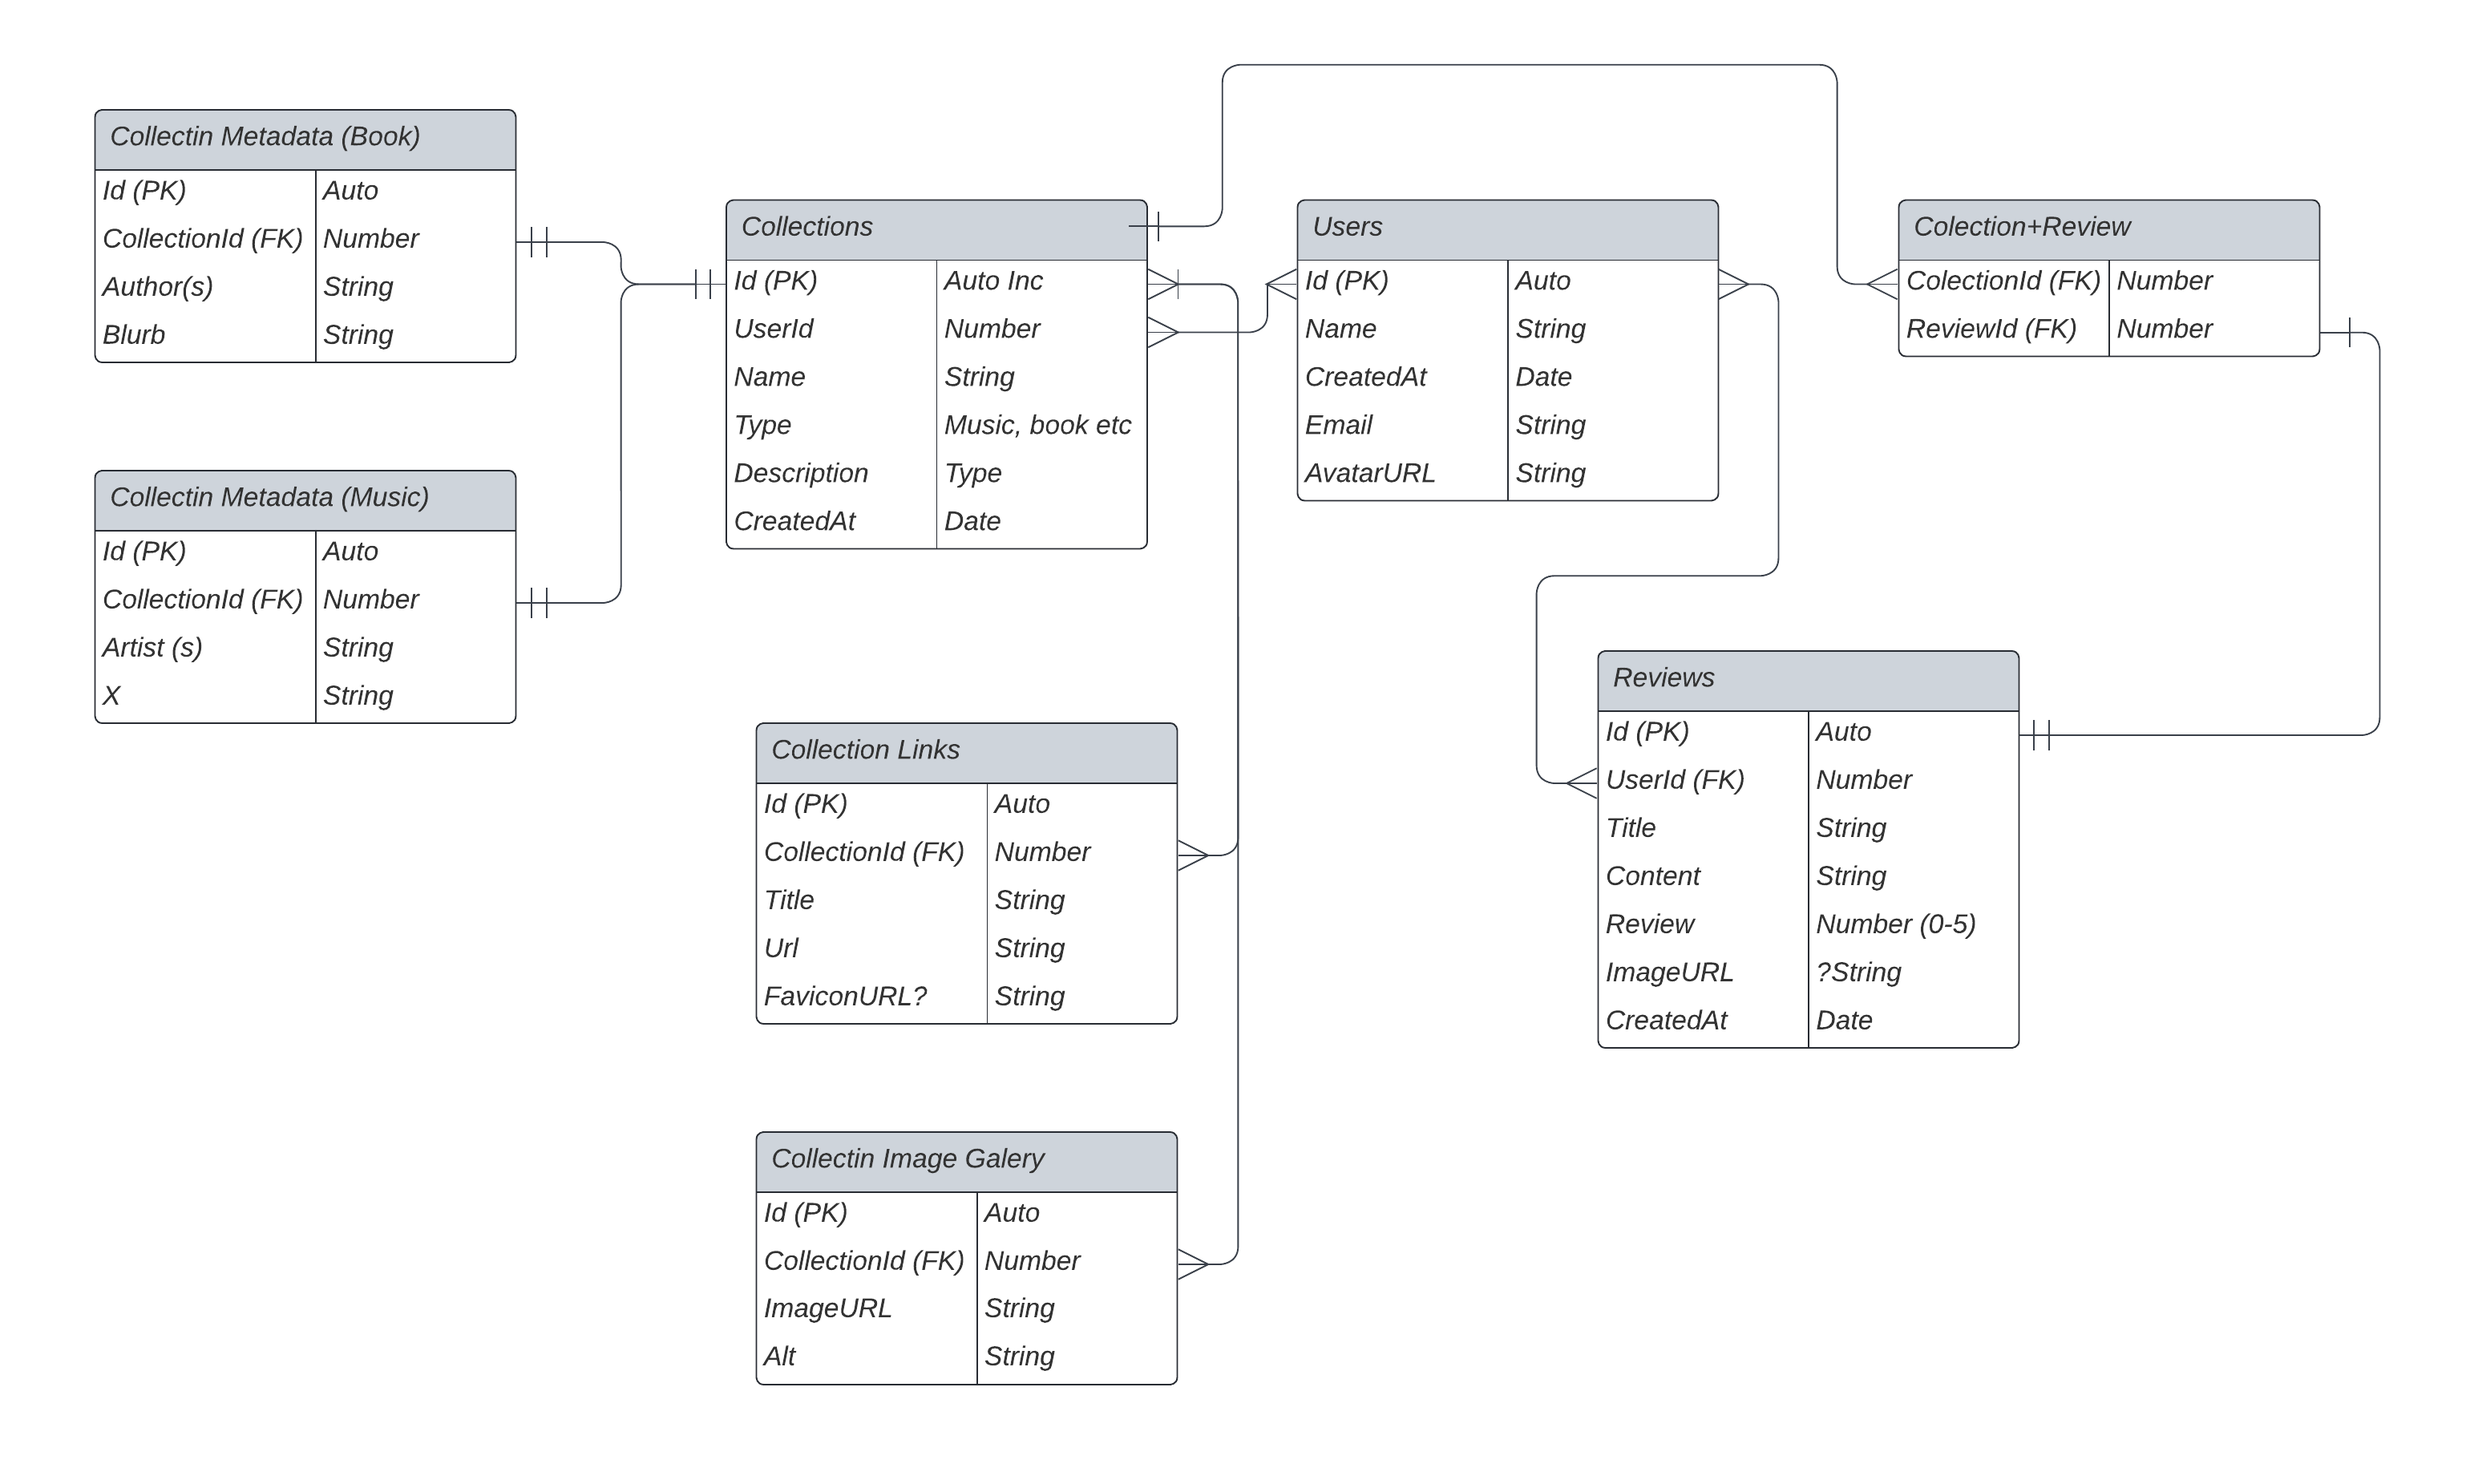
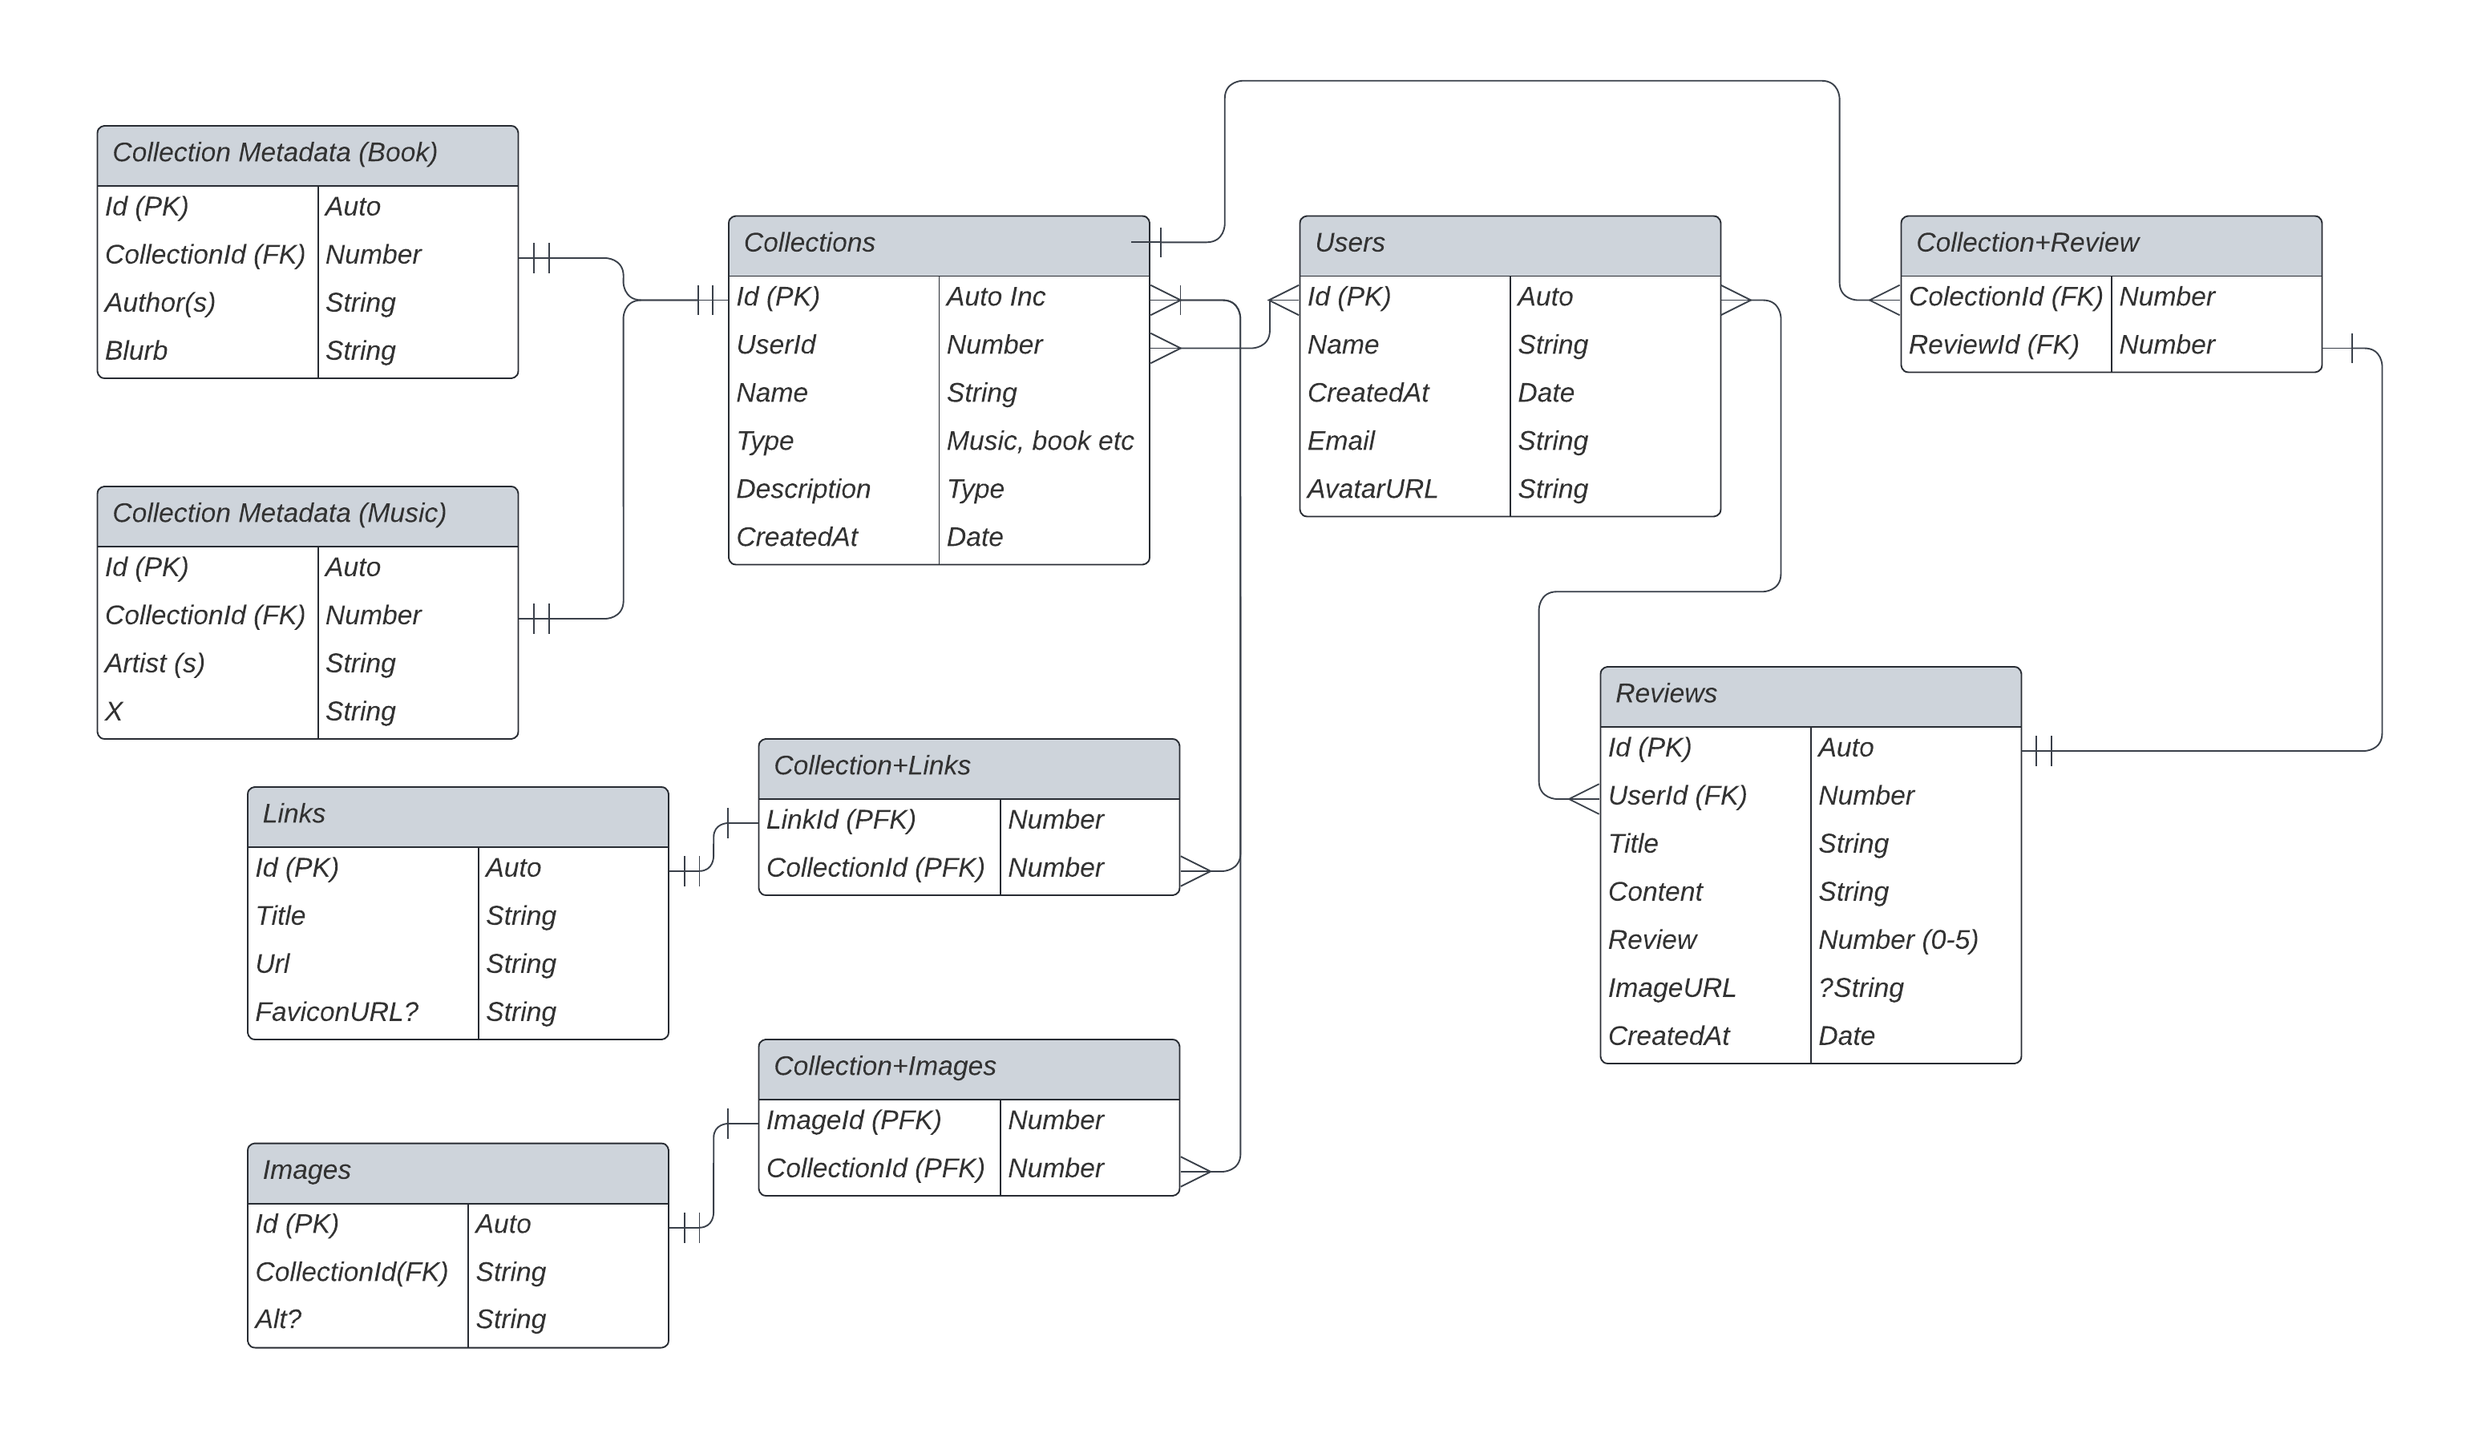
Update the tables

diff --git a/scripts/example_queries.py b/scripts/example_queries.py
@@ -5,8 +5,6 @@ con = sqlite3.connect("../data.db")
 con.row_factory = sqlite3.Row
 
 list = [
-    "a.sql",
-    "b.sql",
     "AllCollections.sql",
     "AllUsers.sql",
     "AllUsers (sorted).sql",
@@ -20,7 +18,7 @@ def dict_from_row(row):
 for file in list:
     print("file: "+file)
     
-    with open("../example_querys/"+file, 'r') as f:
+    with open("../example_queries/"+file, 'r') as f:
         # print(f.read())
         if (file.endswith(".py")):
             exec(f.read())

diff --git a/scripts/create_tables.py b/scripts/create_tables.py
@@ -3,16 +3,15 @@ import sqlite3
 con = sqlite3.connect("../data.db")
 
 list = [
-    "a.sql",
-    "b.sql",
     "Users.sql",
     "Collections.sql",
-    "CollectionImages.sql",
-    "CollectionLinks.sql",
+    "Images.sql",
+    "Links.sql",
+    "Collections+Images.sql",
+    "Collections+Links.sql",
+    "Collections+Reviews.sql",
     "CollectionMetadata (book).sql",
     "CollectionMetadata (music).sql",
-    "Collections+Reviews.sql",
-
 ]
 
 for file in list:

diff --git a/scripts/populate_db.py b/scripts/populate_db.py
@@ -3,8 +3,6 @@ import sqlite3
 con = sqlite3.connect("../data.db")
 
 list = [
-    "a.sql",
-    "b.py",
     "Users.py",
     "Users.sql",
     "Collections.py",

diff --git a/scripts/regenerate.py b/scripts/regenerate.py
@@ -1,3 +1,3 @@
 import create_tables
 import populate_db
-import example_querys
+import example_queries
